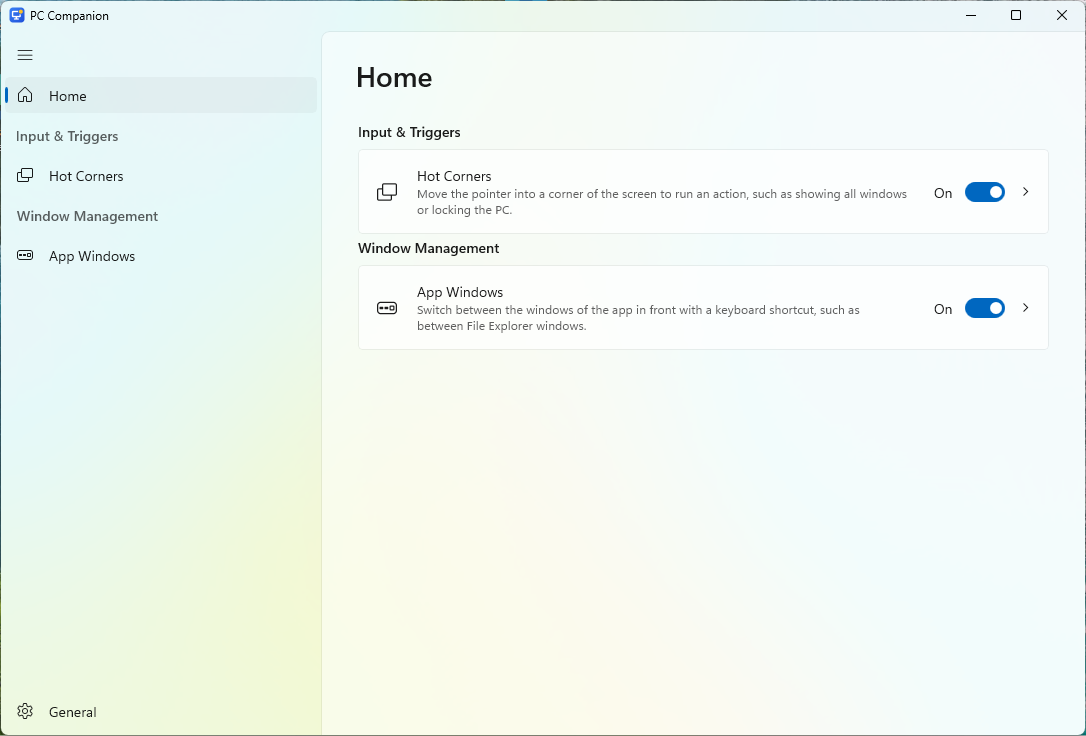
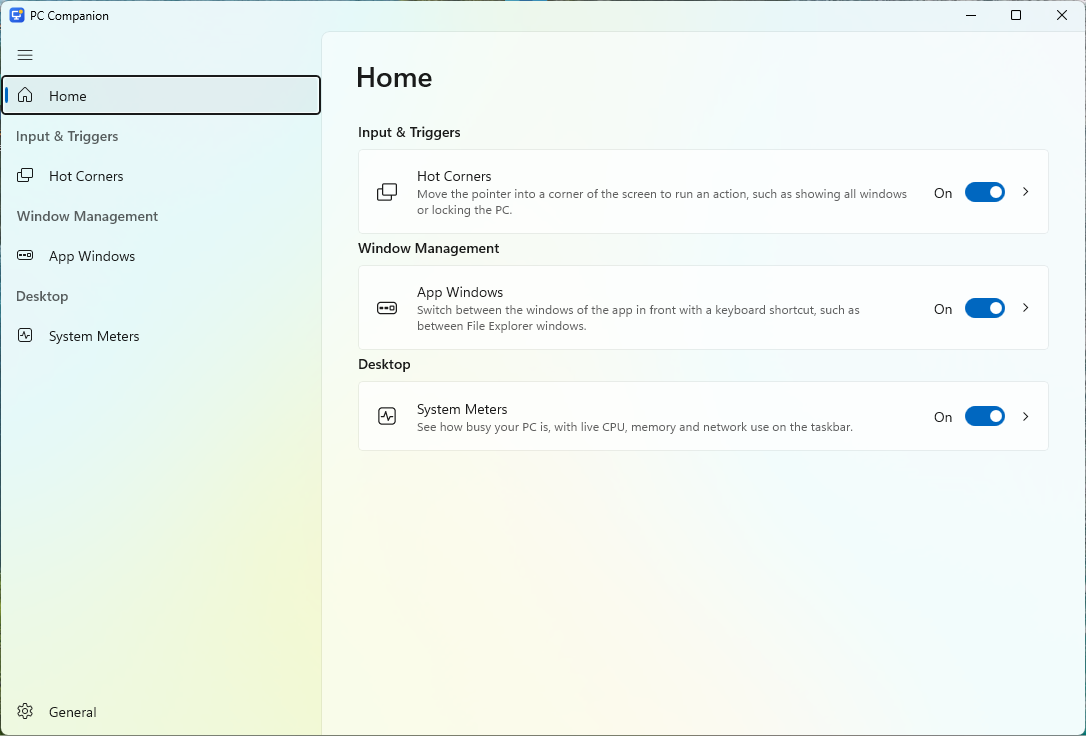
docs(website): describe System Meters from the 0.2.0 release
The website now describes System Meters, which 0.2.0 adds: a section in Features with its page's
screenshot, and a mention in the page's description. The screenshot script shows the System
Meters page with the feature on, and every screenshot was taken again from the published 0.2.0
installer, so Home and the navigation pane show the new Desktop section.

diff --git a/website/index.html b/website/index.html
@@ -6,7 +6,7 @@
   <meta http-equiv="Content-Security-Policy" content="default-src 'none'; img-src 'self'; style-src 'self'; base-uri 'none'; form-action 'none'">
   <meta name="color-scheme" content="light dark">
   <title>PC Companion: useful features from macOS and Linux, on Windows</title>
-  <meta name="description" content="PC Companion is a free, open-source app that brings useful features from macOS, Linux, KDE Plasma and GNOME to Windows, such as Hot Corners and switching between an app's windows.">
+  <meta name="description" content="PC Companion is a free, open-source app that brings useful features from macOS, Linux, KDE Plasma and GNOME to Windows, such as Hot Corners, switching between an app's windows, and system meters on the taskbar.">
   <link rel="canonical" href="https://lazyb0y.github.io/pc-companion/">
   <link rel="icon" href="icon.png" type="image/png">
   <link rel="stylesheet" href="styles.css">
@@ -97,7 +97,25 @@
           </picture>
         </article>
 
-        <article class="feature" aria-labelledby="general-title">
+        <article class="feature" aria-labelledby="system-meters-title">
+          <div class="feature-text">
+            <p class="eyebrow">Desktop</p>
+            <h3 id="system-meters-title">System Meters</h3>
+            <p>See how busy your PC is, with live CPU, memory and network use on the taskbar. Inspired by iStat Menus in macOS and the system monitor widgets of KDE Plasma.</p>
+            <ul class="points">
+              <li>The meters share one item in the taskbar's free space, next to the Widgets entry or the notification area, in three layouts, with color icons, one-color icons or none.</li>
+              <li>Or each meter gets its own icon in the notification area, which you can reach with the keyboard.</li>
+              <li>The values Task Manager shows: how busy the processor is, how much memory is in use, and how fast the PC receives and sends data. Select the meters to open Task Manager.</li>
+              <li>Reads only figures for the whole PC, never what each app uses or the names on the taskbar, and pauses while the PC is locked or the displays are off.</li>
+            </ul>
+          </div>
+          <picture class="shot">
+            <source srcset="images/system-meters-dark.png" media="(prefers-color-scheme: dark)">
+            <img src="images/system-meters-light.png" width="1086" height="736" loading="lazy" alt="The System Meters page, with a switch for each meter, where they show, the layout, the icons and how often they update.">
+          </picture>
+        </article>
+
+        <article class="feature feature-reverse" aria-labelledby="general-title">
           <div class="feature-text">
             <p class="eyebrow">General</p>
             <h3 id="general-title">Made to fit Windows</h3>
